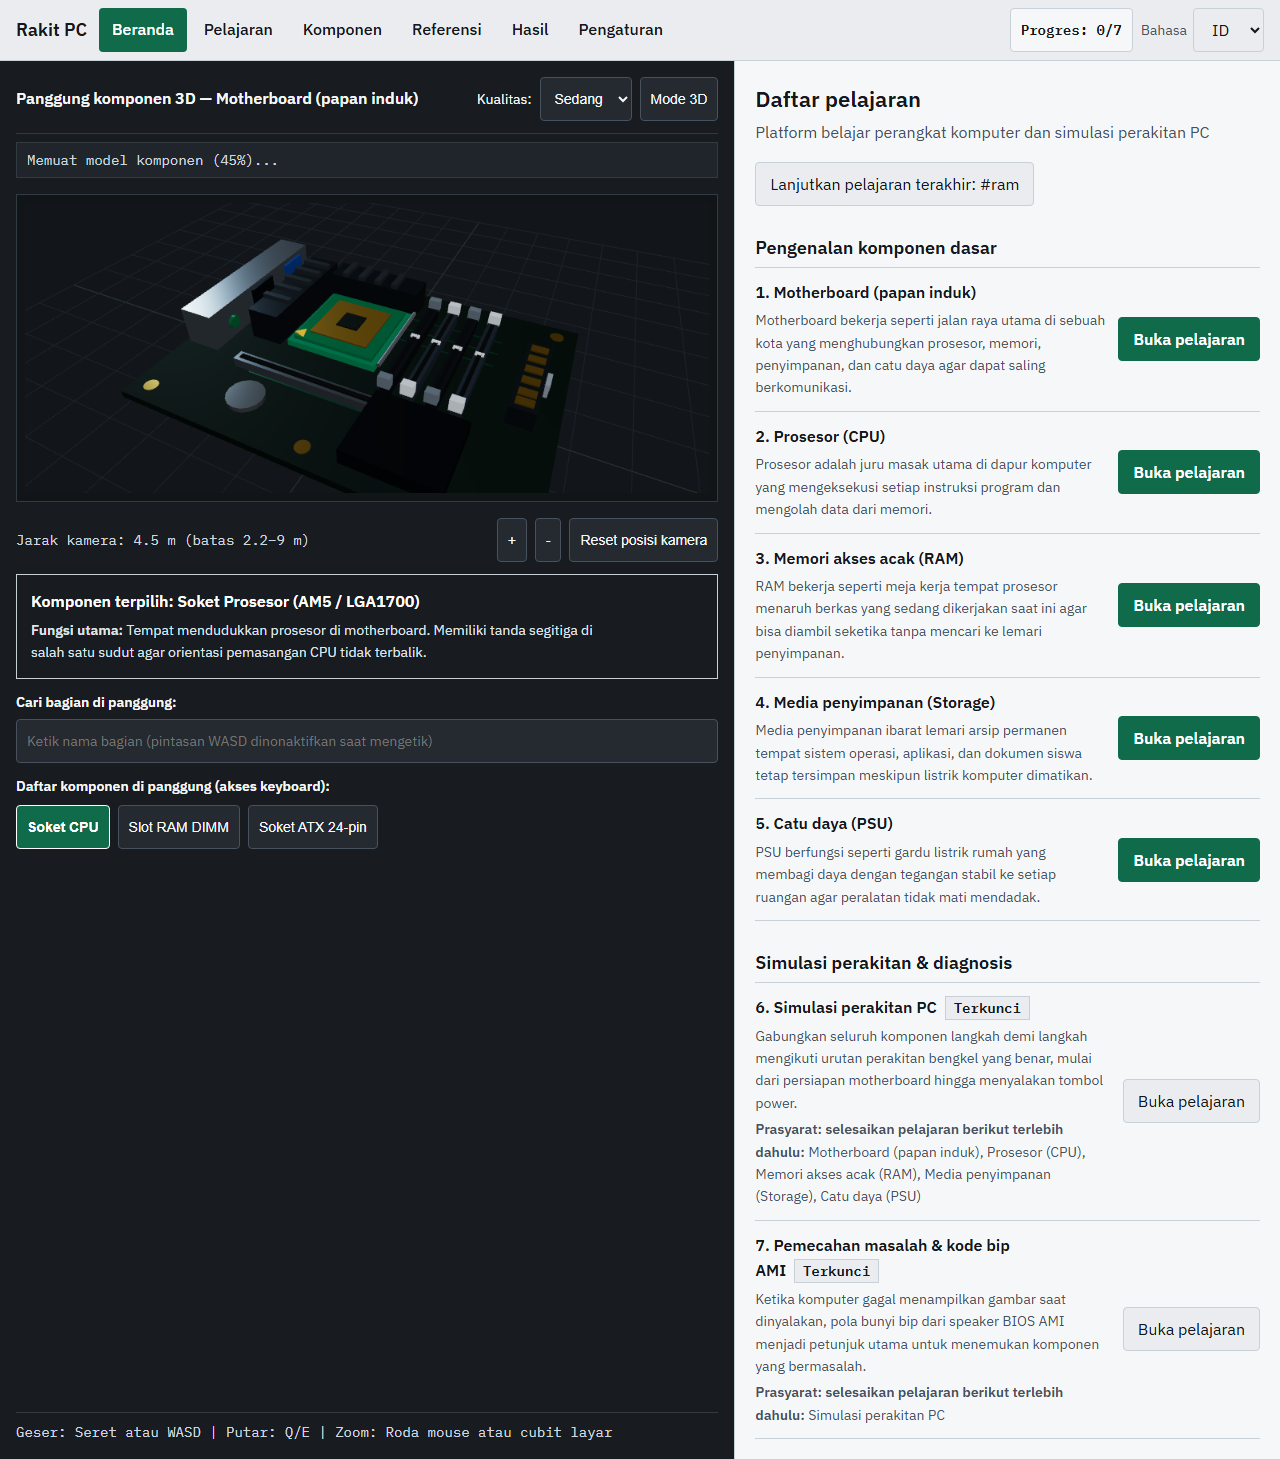
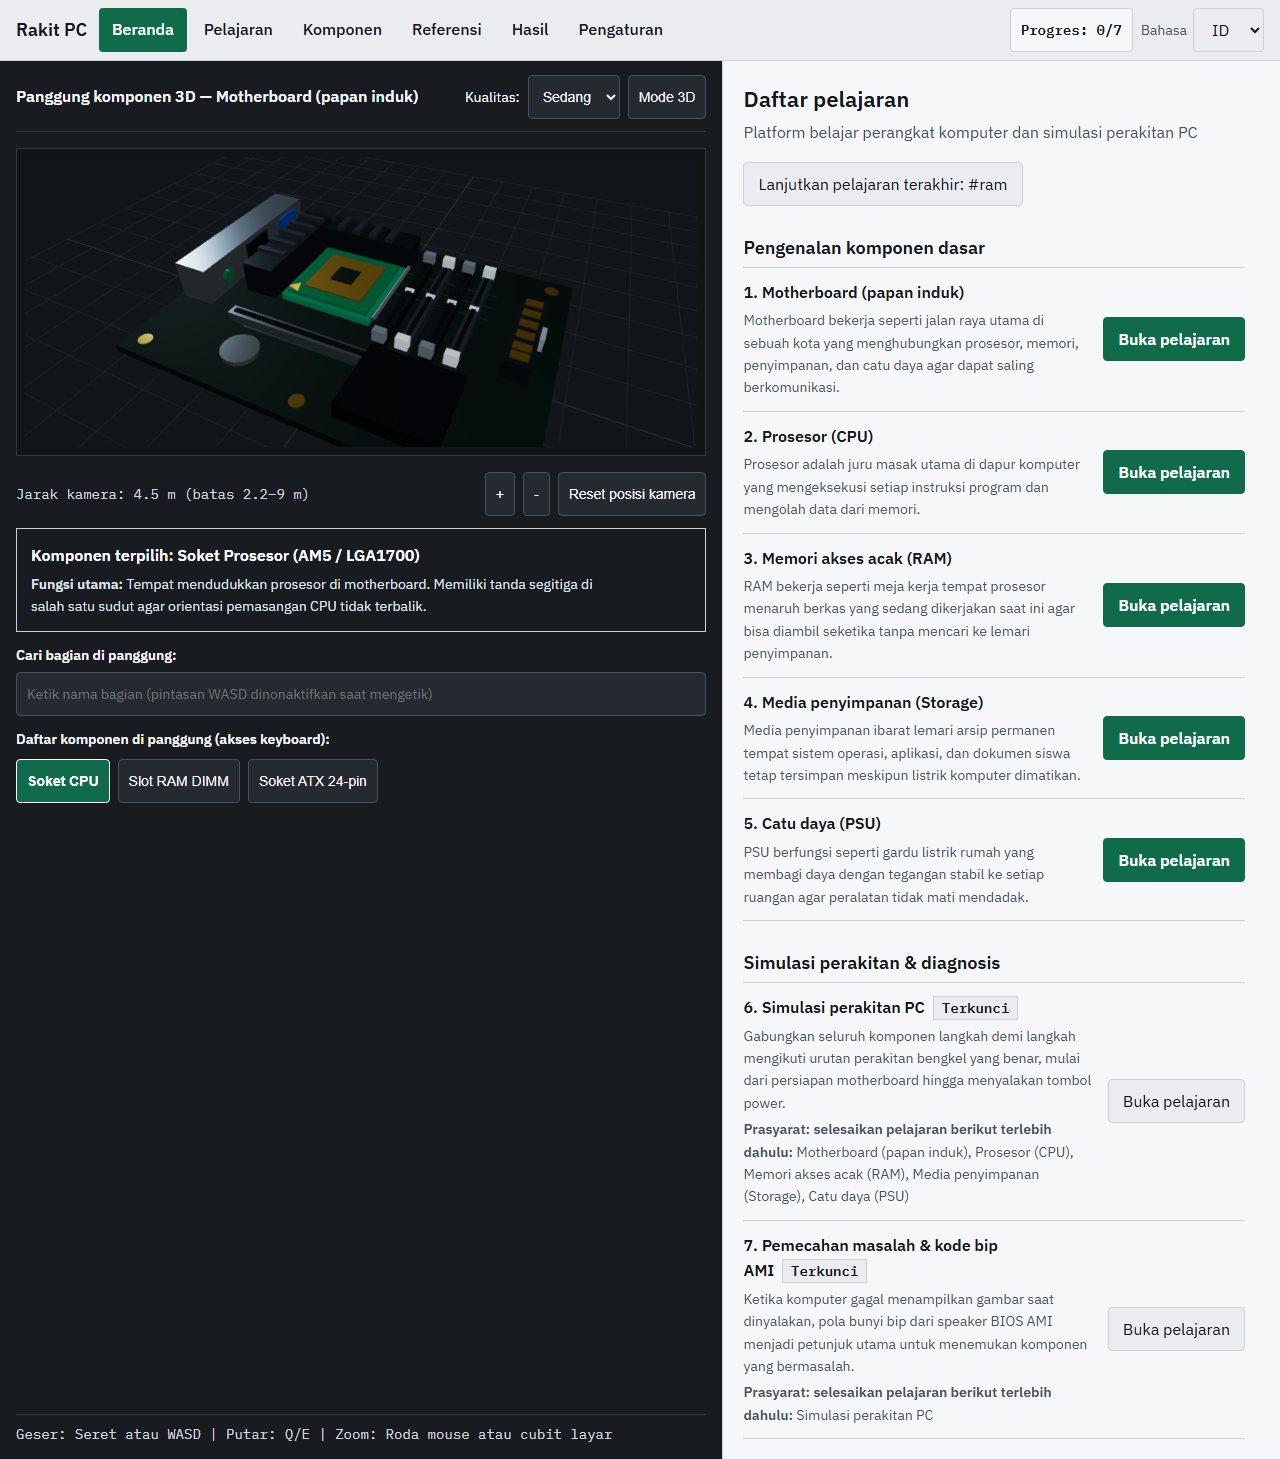
fix(ui): tambahkan scroll terpisah pada panel materi/simulasi agar panggung 3D tetap di tempat pada desktop dan ponsel

diff --git a/src/ui/styles.css b/src/ui/styles.css
@@ -207,11 +207,15 @@ a {
   border-color: var(--color-status-error);
 }
 
-/* Tata letak dua kolom panggung 3D + panel materi (Bagian 15.4) */
+/* Tata letak dua kolom panggung 3D + panel materi dengan scroll terpisah (Bagian 15.4) */
 .workbench-grid {
-  flex: 1;
   display: grid;
-  grid-template-columns: minmax(0, 1.35fr) minmax(0, 1fr);
+  grid-template-columns: minmax(0, 1.3fr) minmax(0, 1fr);
+  grid-template-rows: minmax(0, 1fr);
+  height: calc(100vh - 61px);
+  max-height: calc(100vh - 61px);
+  min-height: 480px;
+  overflow: hidden;
   border-bottom: 1px solid var(--color-border-line);
 }
 
@@ -222,9 +226,13 @@ a {
   display: flex;
   flex-direction: column;
   justify-content: space-between;
-  padding: 1rem;
+  padding: 0.875rem 1rem;
   min-width: 0;
   max-width: 100%;
+  min-height: 0;
+  height: 100%;
+  overflow-y: auto;
+  overscroll-behavior: contain;
 }
 
 .panel-column {
@@ -235,6 +243,11 @@ a {
   gap: 1rem;
   min-width: 0;
   max-width: 100%;
+  min-height: 0;
+  height: 100%;
+  overflow-y: auto;
+  overscroll-behavior: contain;
+  scrollbar-gutter: stable;
 }
 
 /* Elemen di dalam Panggung 3D */
@@ -653,15 +666,35 @@ a {
   margin-top: 1.25rem;
 }
 
-/* Responsif untuk Tablet & HP hingga 320 px (Bagian 15.4 & 15.6) */
+/* Responsif untuk Tablet & HP hingga 320 px: panggung 3D tetap di atas, panel materi punya scroll tersendiri di bawah (Bagian 15.4 & 15.6) */
 @media (max-width: 900px) {
   .workbench-grid {
+    display: grid;
     grid-template-columns: minmax(0, 1fr);
+    grid-template-rows: minmax(210px, 44%) minmax(0, 56%);
+    height: calc(100vh - 60px);
+    max-height: calc(100vh - 60px);
+    min-height: 480px;
+    overflow: hidden;
   }
 
   .stage-column {
+    min-height: 0;
+    height: 100%;
     border-right: none;
-    border-bottom: 1px solid var(--color-border-line);
+    border-bottom: 2px solid var(--color-border-line);
+    overflow-y: auto;
+  }
+
+  .panel-column {
+    min-height: 0;
+    height: 100%;
+    overflow-y: auto;
+  }
+
+  .stage-viewport {
+    min-height: 175px;
+    margin: 0.5rem 0;
   }
 }
 

diff --git a/tests/e2e/fase-4-perakitan.spec.ts b/tests/e2e/fase-4-perakitan.spec.ts
@@ -175,6 +175,28 @@ test.describe('Fase 4 — Simulasi Perakitan Interaktif, Kegagalan Fisik/Logis, 
       );
       expect(hasOverflow).toBe(false);
 
+      // Pastikan panel materi memiliki scroll tersendiri dan tidak menggeser posisi panggung 3D
+      const stageBoxBefore = await page.getByTestId('stage-canvas-container').boundingBox();
+      const scrollVerify = await page.evaluate(() => {
+        const panel = document.querySelector('.panel-column') as HTMLElement | null;
+        if (!panel) return { hasIndependentScroll: false, scrolled: false };
+        const style = window.getComputedStyle(panel);
+        const hasIndependentScroll =
+          (style.overflowY === 'auto' || style.overflowY === 'scroll') &&
+          panel.scrollHeight > panel.clientHeight;
+        panel.scrollTop = 320;
+        return {
+          hasIndependentScroll,
+          scrolled: panel.scrollTop > 0,
+        };
+      });
+
+      expect(scrollVerify.hasIndependentScroll).toBe(true);
+      expect(scrollVerify.scrolled).toBe(true);
+
+      const stageBoxAfter = await page.getByTestId('stage-canvas-container').boundingBox();
+      expect(stageBoxAfter?.y).toBeCloseTo(stageBoxBefore?.y ?? 0, 1);
+
       await page.screenshot({
         path: `docs/screenshots/fase-4/simulasi-rakit-${vp.width}px.png`,
         fullPage: true,
